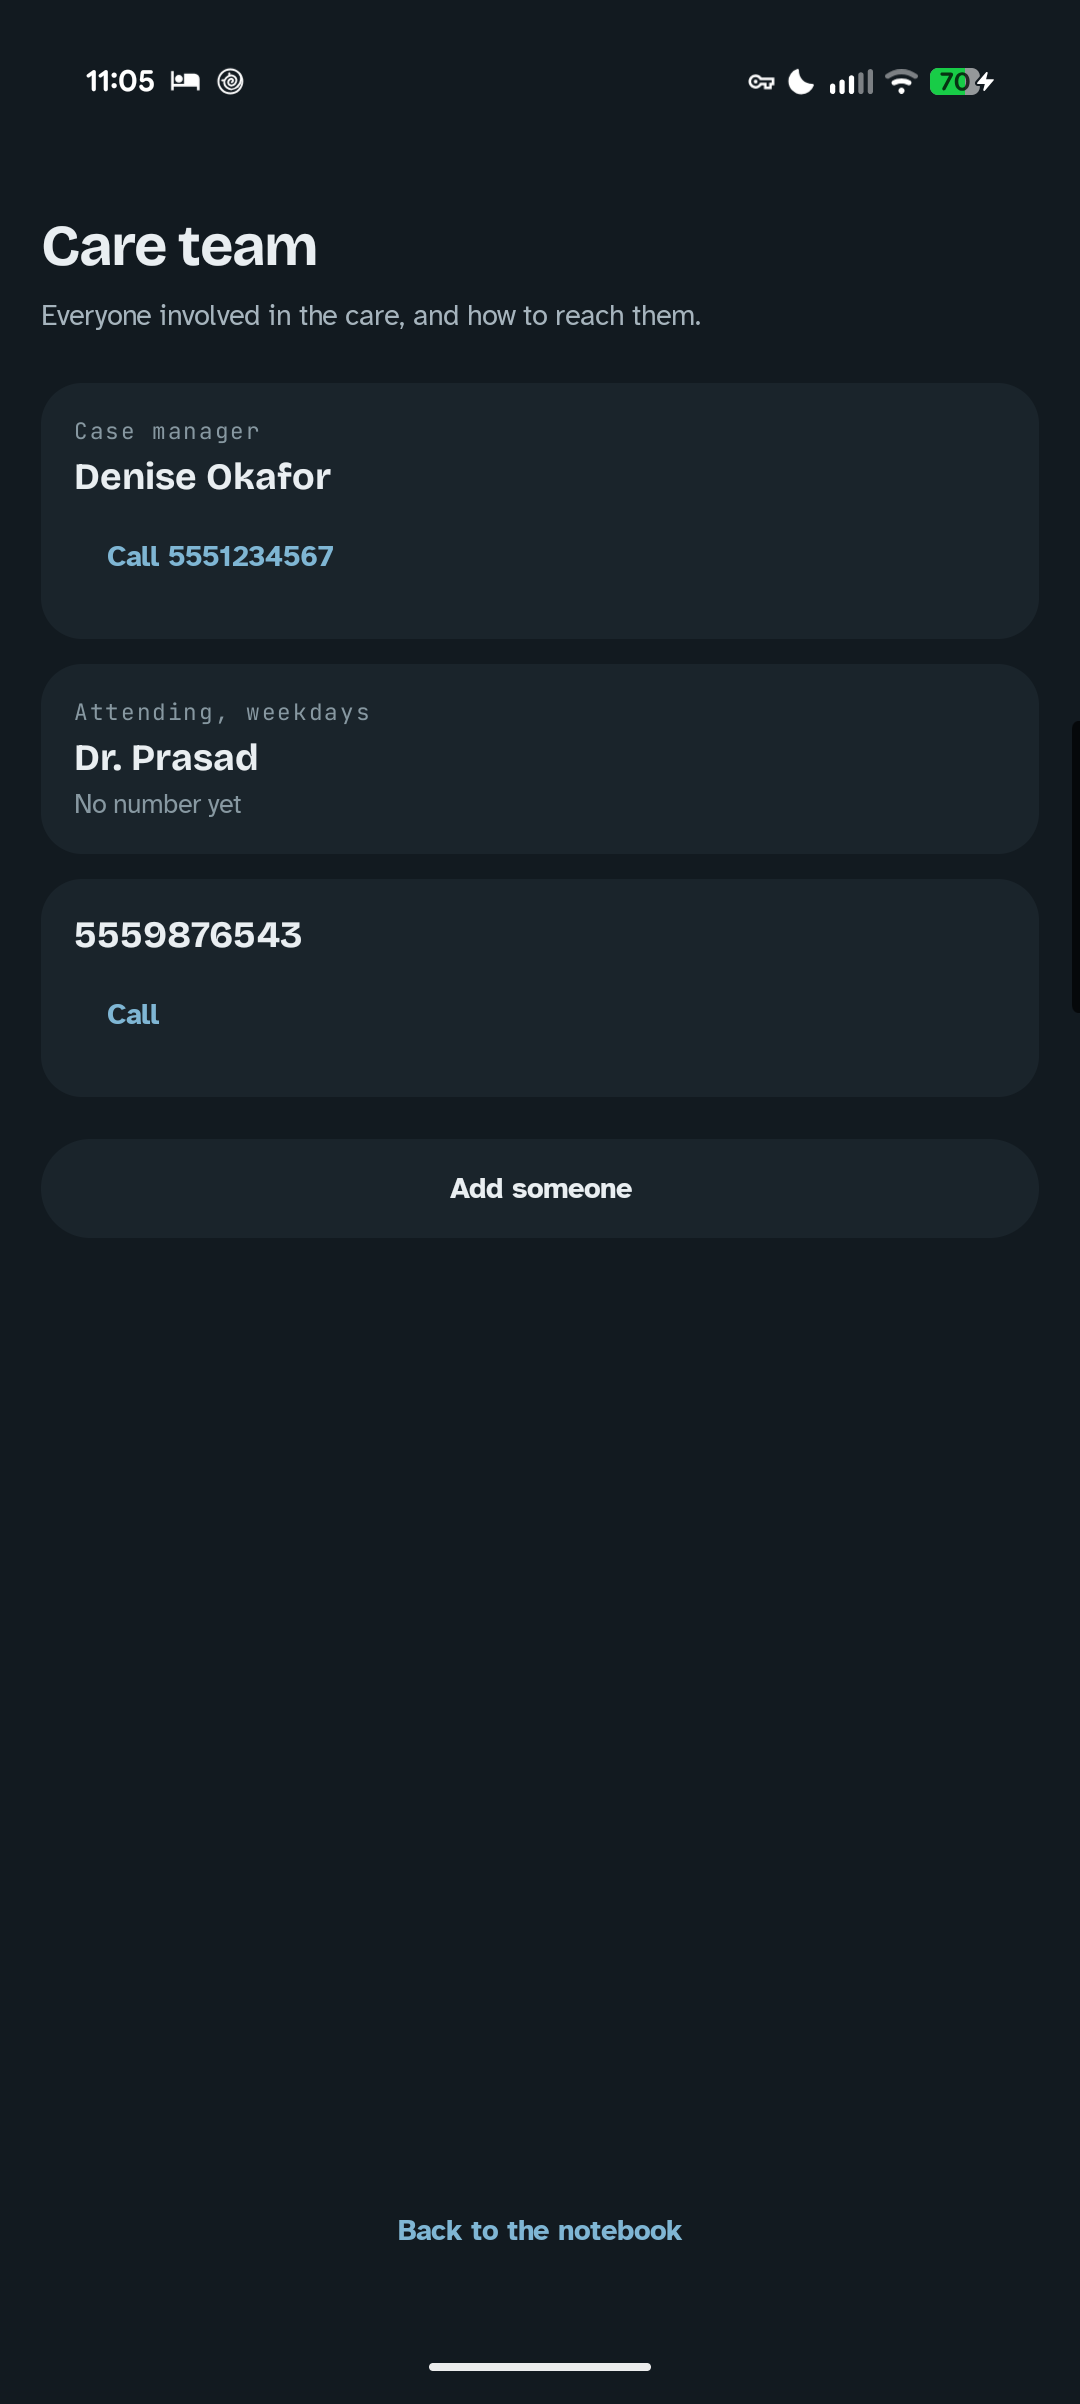
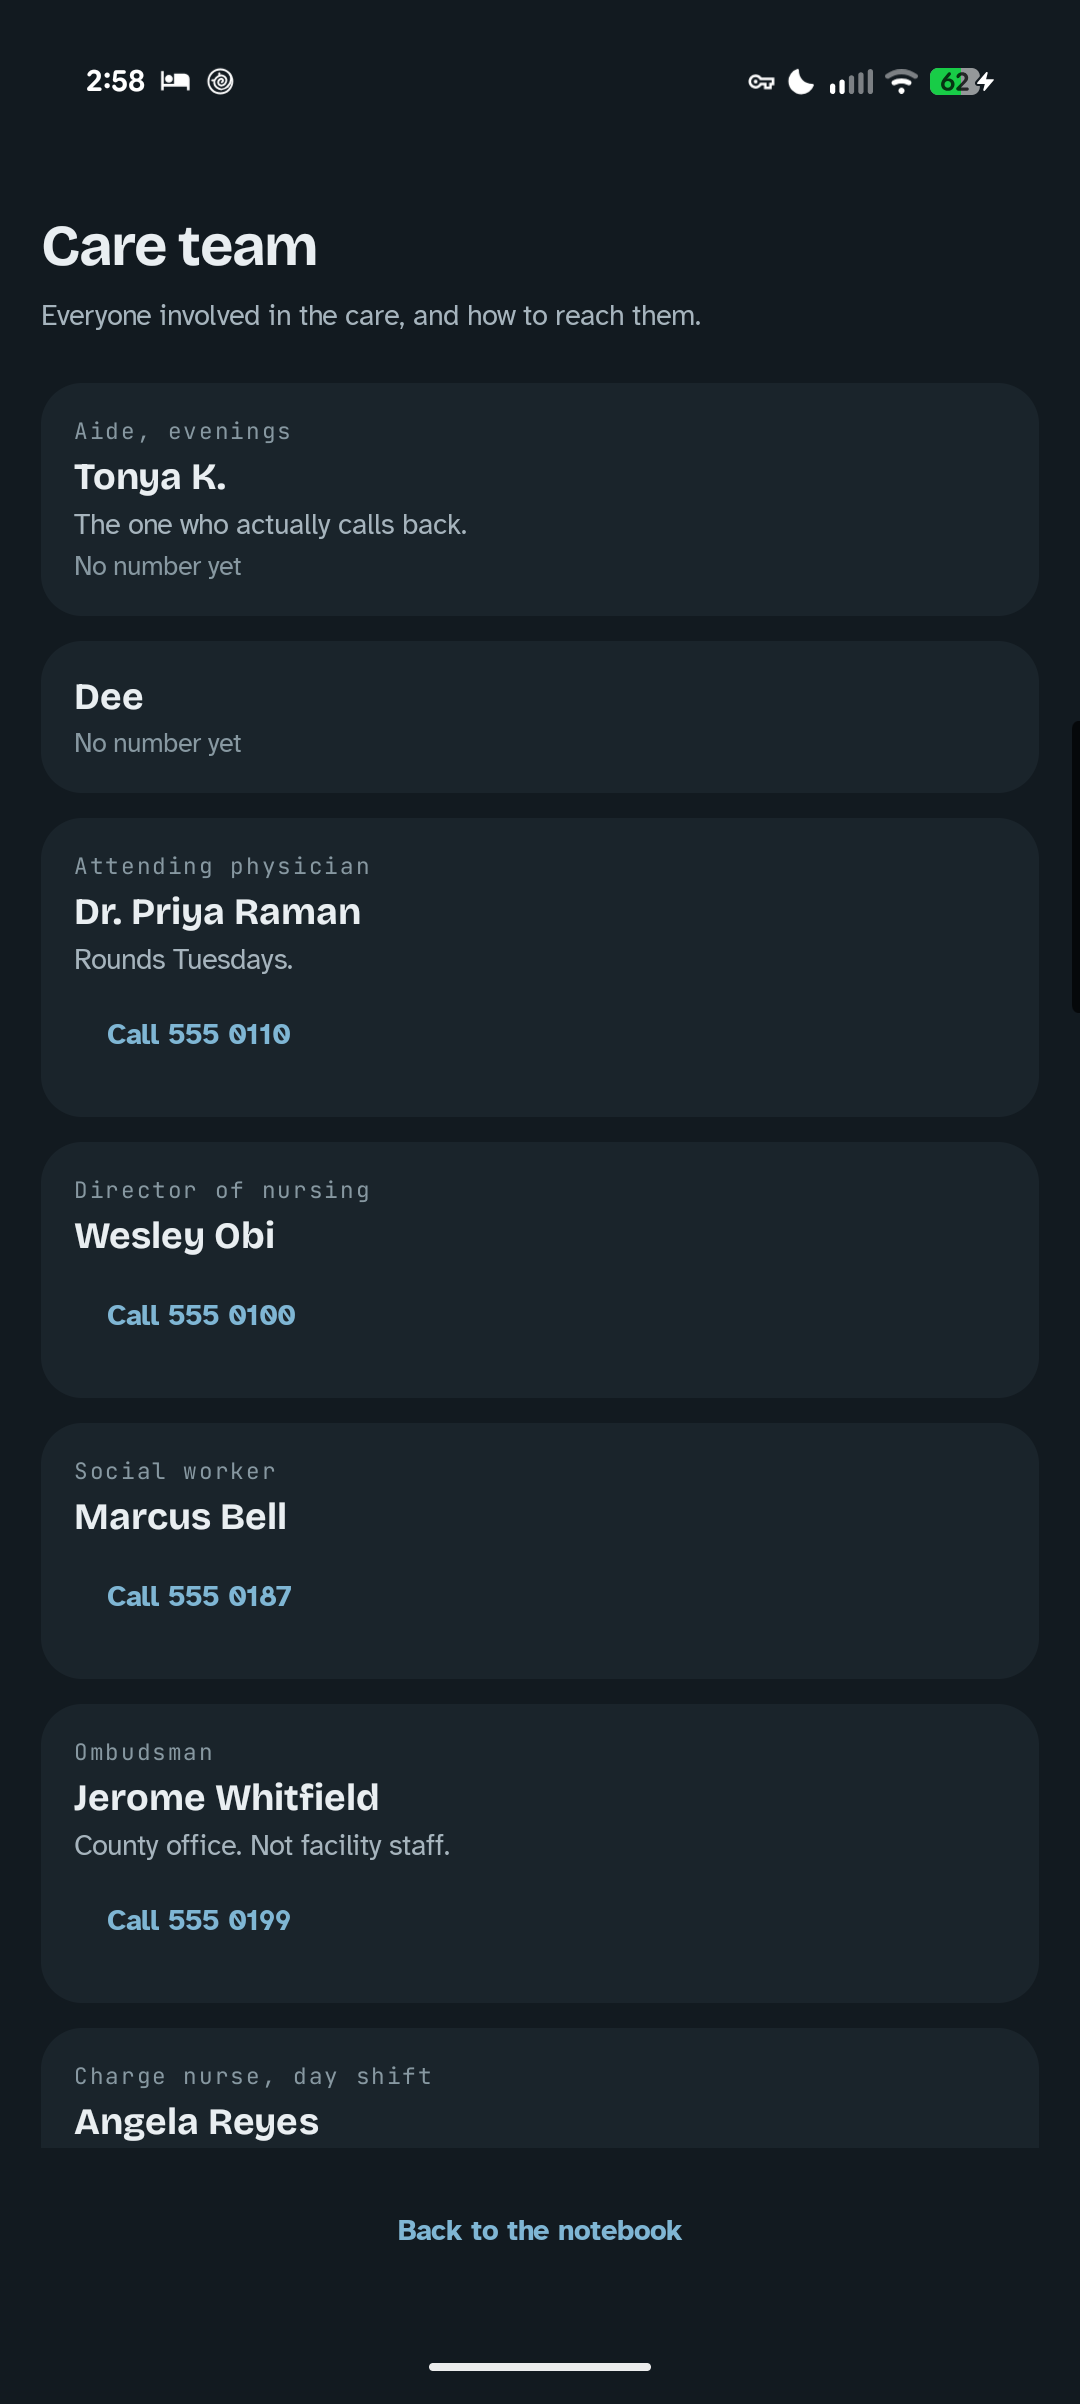
The number was the whole point and it looked like the edit button
A person's page exists so that somebody standing in a corridor who needs
the charge nurse gets the number rather than a form. The file's own
documentation says exactly that. The screen then gave "Call 555 0142" and
"Correct their details" the same quiet treatment, one above the other, so
the reader had to sort them. Uniform weight is not neutral: it pushes the
sorting onto somebody who is already exhausted. Rule 15.

The call is filled now, in the same treatment every other primary action
in the app uses. Correcting a spelling is the rare errand and stays quiet.

And the shift note moved above both of them. "Days, 7 to 3. Ask for her by
name" and "the one who actually calls back" are what you need before you
dial, and they were sitting underneath the buttons, where the eye arrives
after the decision has already been made.

Walked on the phone, including the call itself: ACTION_DIAL opens the
dialer with the number filled in and places nothing, which is the right
behavior and had never been checked.

diff --git a/android/app/src/main/kotlin/com/kamsiob/healthtrail/ui/screens/PersonScreen.kt b/android/app/src/main/kotlin/com/kamsiob/healthtrail/ui/screens/PersonScreen.kt
@@ -15,6 +15,7 @@ import androidx.compose.ui.semantics.semantics
 import com.kamsiob.healthtrail.data.Repository
 import com.kamsiob.healthtrail.i18n.LocalStrings
 import com.kamsiob.healthtrail.time.EventDateText
+import com.kamsiob.healthtrail.ui.components.FilledButton
 import com.kamsiob.healthtrail.ui.components.GroupHeader
 import com.kamsiob.healthtrail.ui.components.QuietButton
 import com.kamsiob.healthtrail.ui.components.RouteDash
@@ -76,9 +77,27 @@ fun PersonScreen(
         backLabelKey = backLabelKey,
         modifier = modifier,
     ) {
+        // **What you need to know before you dial, above the thing that
+        // dials.** "Days, 7 to 3, ask for her by name" and "the one who
+        // actually calls back" are the reason somebody opened this screen at
+        // all, and they were sitting underneath both buttons where the eye
+        // reaches them after the decision has been made.
+        person.notes?.takeIf { it.isNotBlank() }?.let {
+            item {
+                Text(text = it, style = HealthTrail.type.bodyL, color = colors.ink)
+                Spacer(Modifier.height(Space.l))
+            }
+        }
+
         item {
+            // **The number carries the weight, because it is the whole point.**
+            // Somebody standing in a corridor who needs the charge nurse needs
+            // the number, not a form, and this screen gave the two the same
+            // treatment: one quiet button above another quiet button, which
+            // makes the reader sort them. Rule 15. Correcting a spelling is the
+            // rare errand and stays quiet.
             person.phone?.takeIf { it.isNotBlank() }?.let { number ->
-                QuietButton(
+                FilledButton(
                     label = strings("person.call", "number" to number),
                     onClick = { onCall(number) },
                     modifier = Modifier.fillMaxWidth().testTag(PersonTags.CALL),
@@ -91,13 +110,6 @@ fun PersonScreen(
                 modifier = Modifier.fillMaxWidth().testTag(PersonTags.EDIT),
             )
             Spacer(Modifier.height(Space.sectionGap))
-        }
-
-        person.notes?.takeIf { it.isNotBlank() }?.let {
-            item {
-                Text(text = it, style = HealthTrail.type.bodyL, color = colors.ink)
-                Spacer(Modifier.height(Space.sectionGap))
-            }
         }
 
         item {
